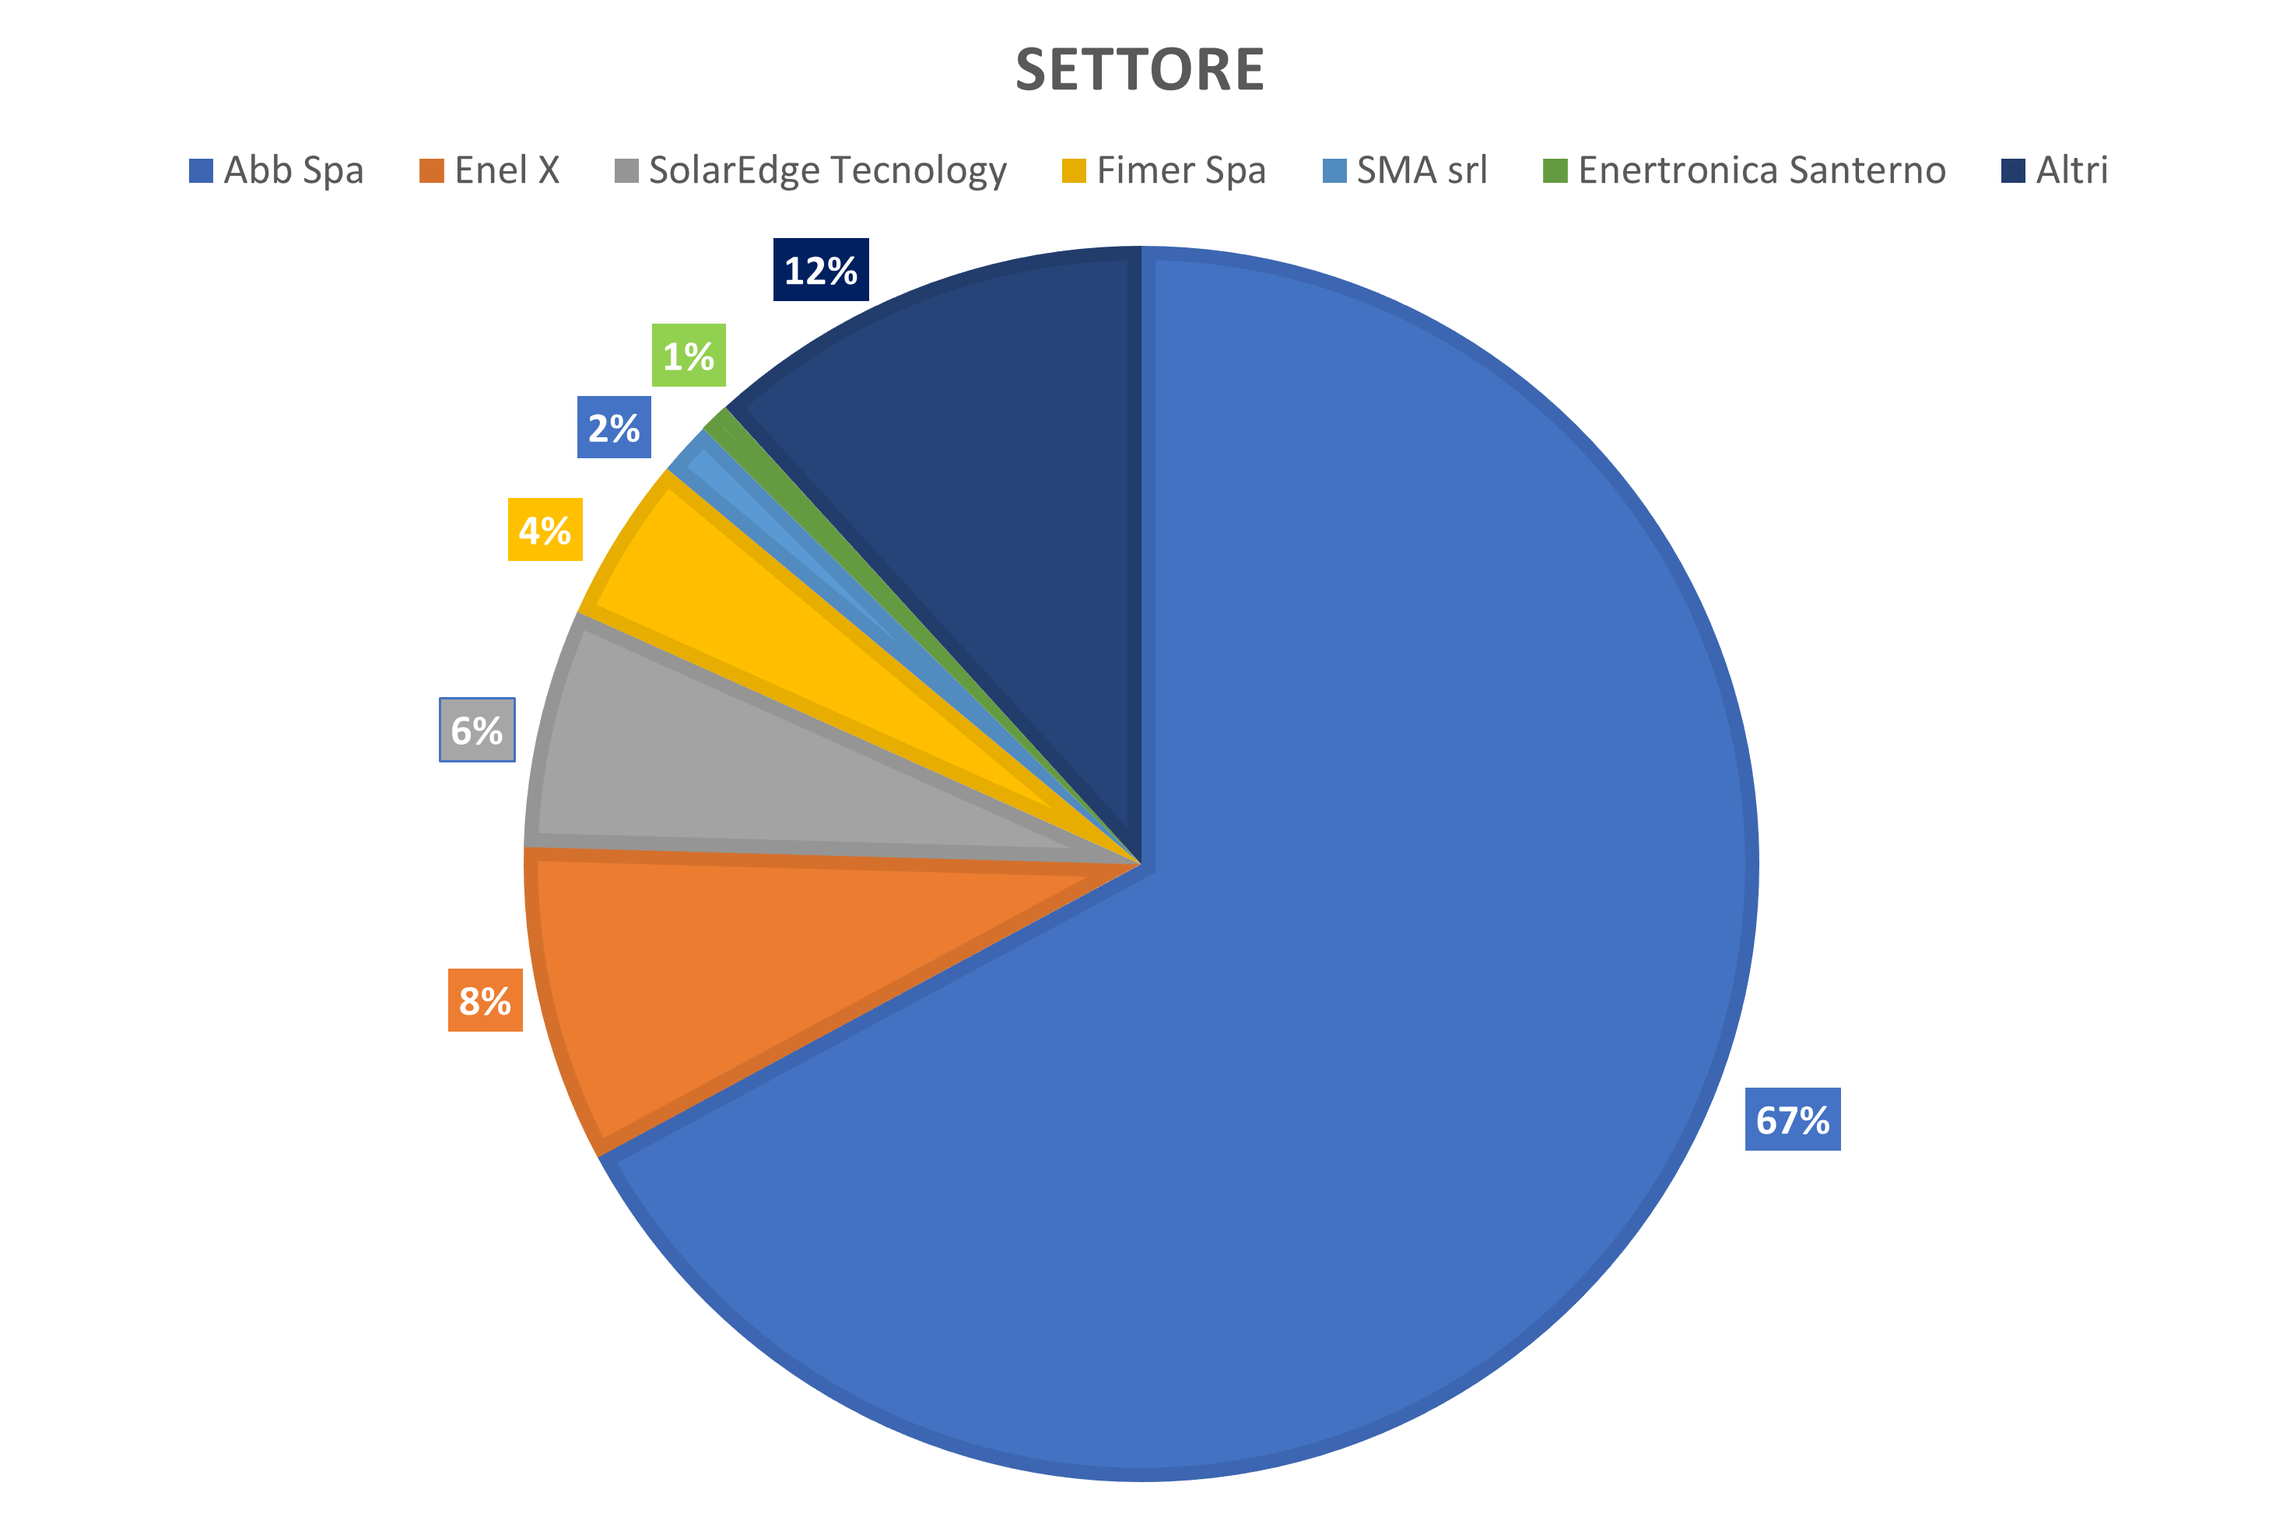
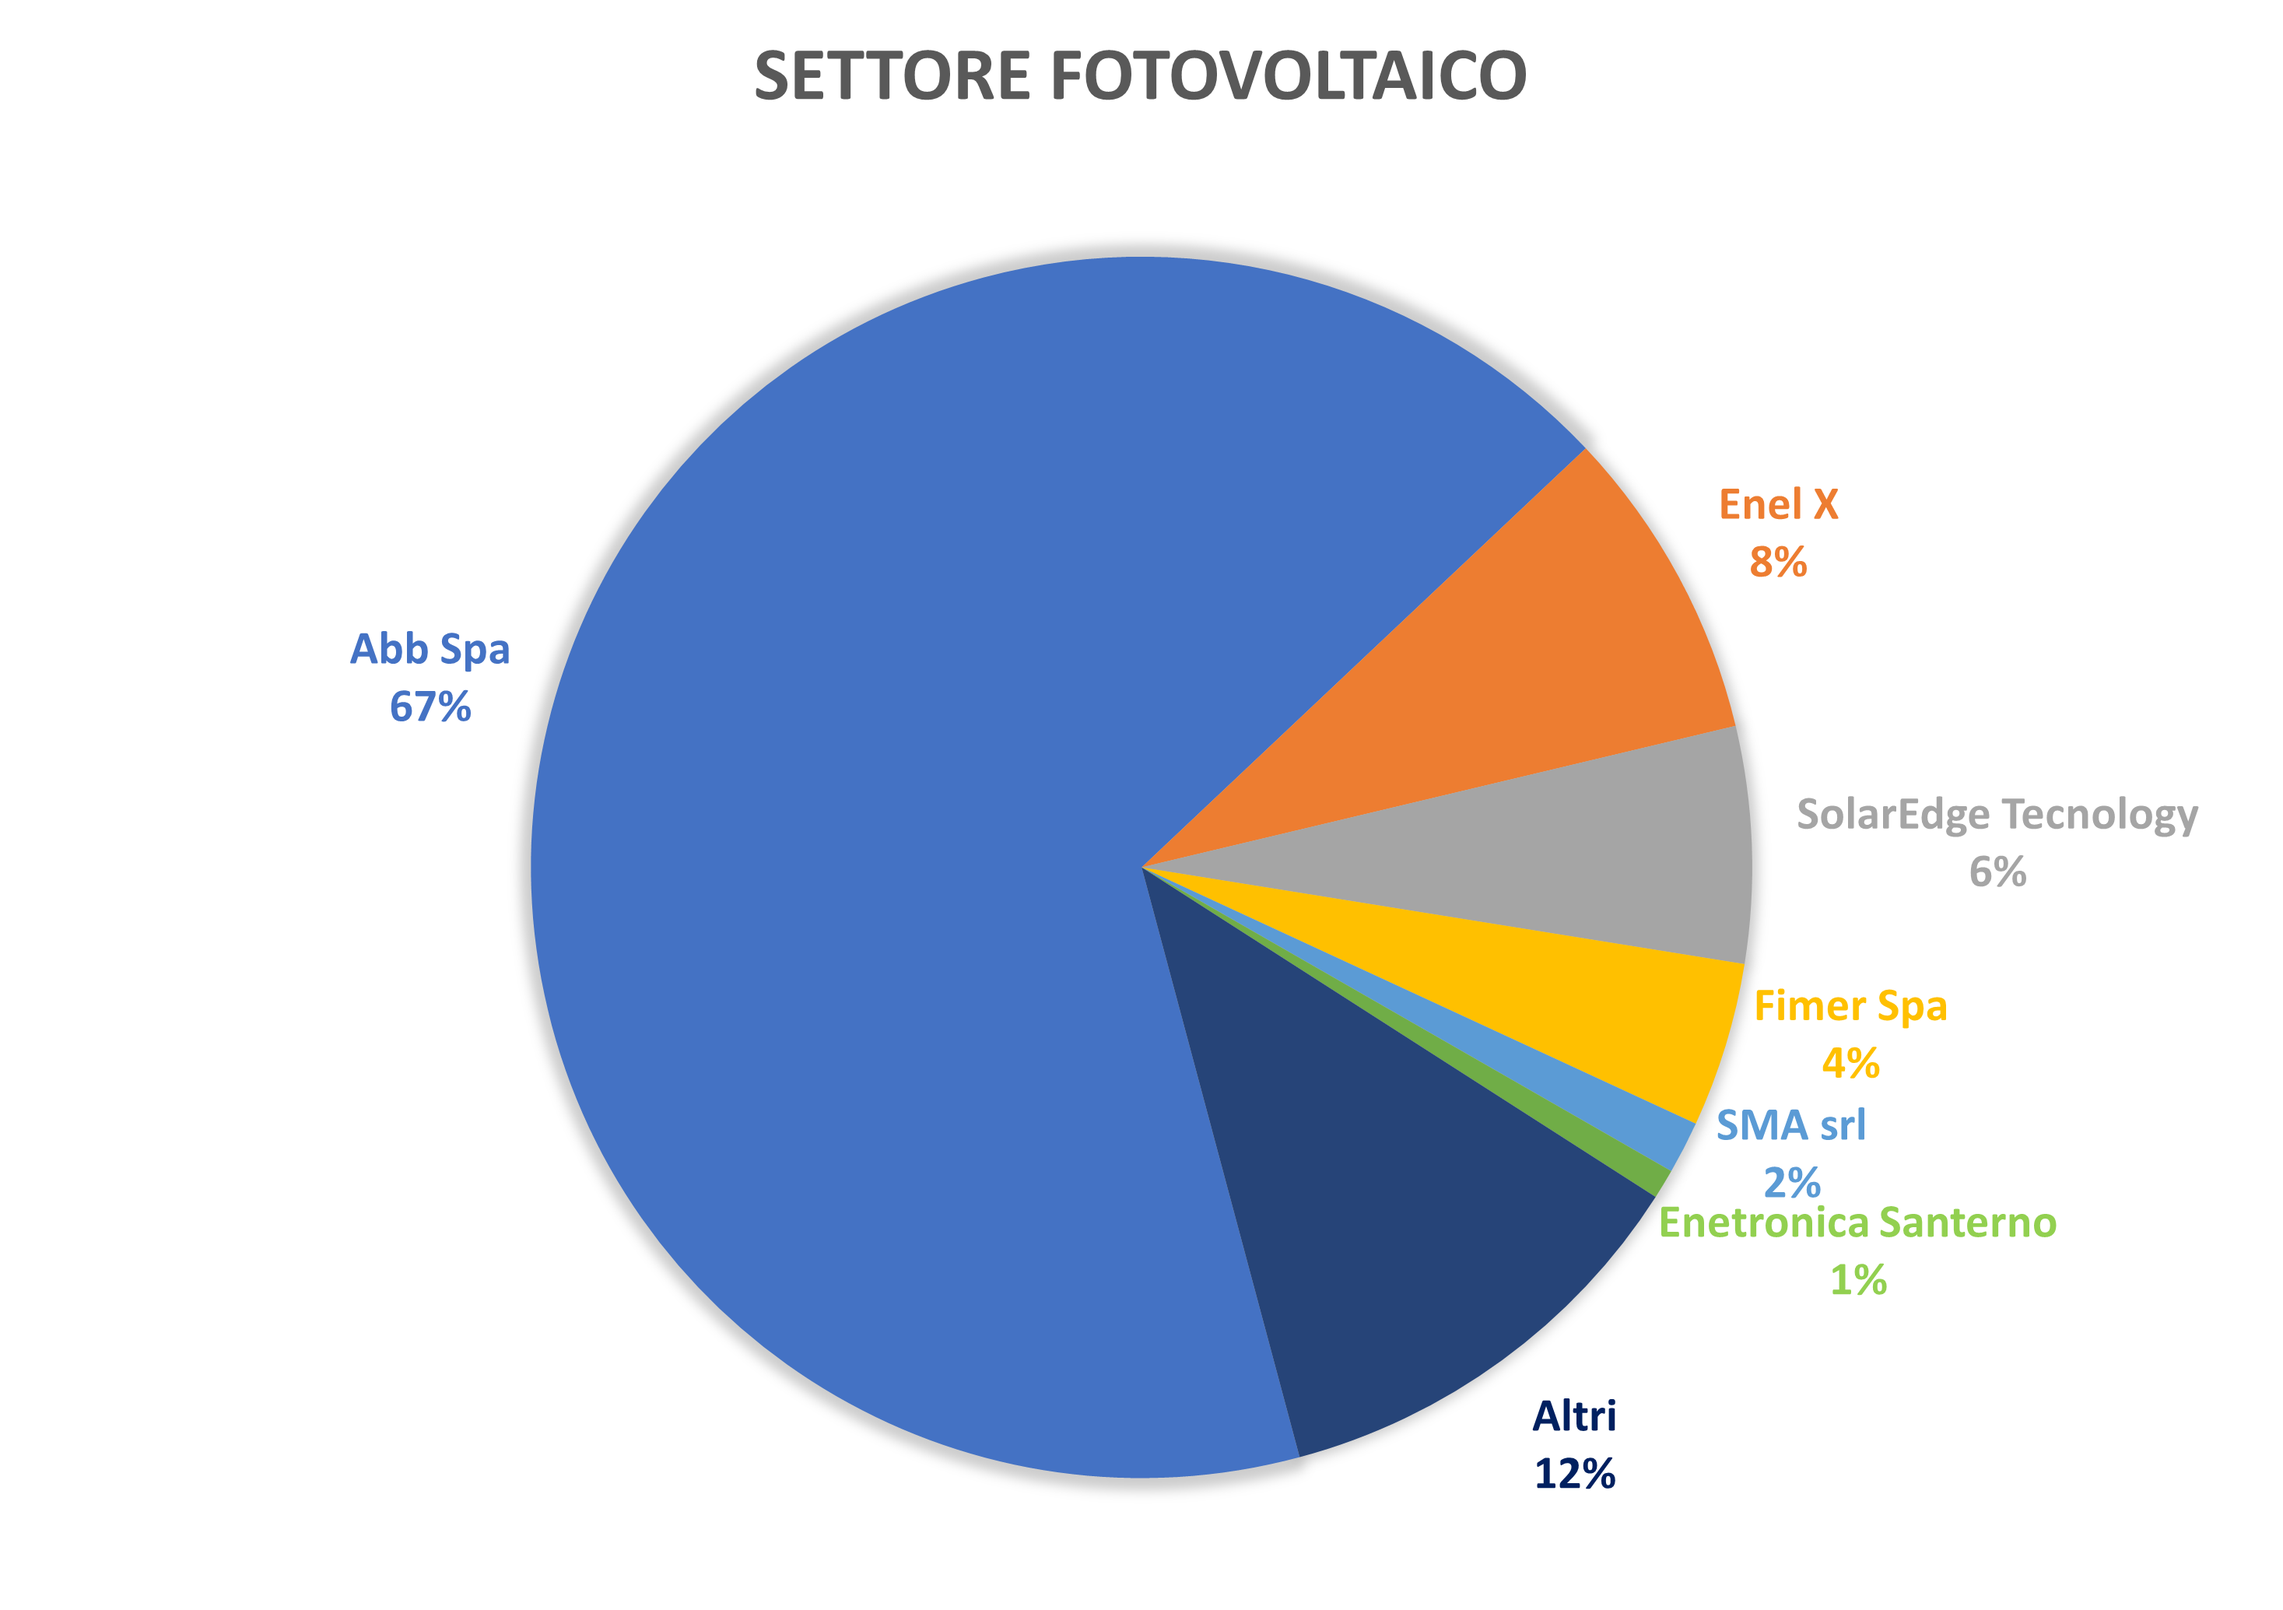
Aggiunta SWOT e curve di valore

diff --git a/Report/Report.tex b/Report/Report.tex
@@ -80,10 +80,10 @@
 	% https://www.lumi4innovation.it/accumulo-energia-rinnovabili-energy-storage/
 	*inserisci nome* vuole inserirsi all'interno del settore fotovoltaico, avendo lo scopo di rendere più utili e performanti queste fonti sostenibili.\\\\
 	Grazie alla sempre maggiore spinta internazionale verso le fonti di energia rinnovabili, il settore fotovoltaico è in notevole espansione sull'intero pianeta.\\
-	Importante è anche la crescita della capacità fotovoltaica installata in Italia. Nei primi sette mesi del 2023, in Italia, sono stati installati oltre 2,7 GW, con una crescita del 113\% rispetto allo stesso periodo dell'anno precedente, con un importante contributo degli impianti residenziali (circa il 47\% della capacità totale connessa).\\	
+	Importante è anche la crescita della capacità fotovoltaica installata in Italia. Nei primi sette mesi del 2023, in Italia, sono stati installati oltre 2,7 GW, con una crescita del 113\% rispetto allo stesso periodo dell'anno precedente, con un importante contributo degli impianti residenziali (circa il 47\% della capacità totale connessa).\\\\
 	Secondo i dati forniti da \href{https://www.terna.it/it/sistema-elettrico/dispacciamento/fonti-rinnovabili}{\emph{Gaudì}}, la potenza fotovoltaica cumulata in Italia, ad agosto 2023, ha superato i 28 GW, con oltre 1,4 milioni di installazioni attive. Un dato notevole se si considera che, nei primi otto mesi dell'anno, sono stati installati 3.123 MW di potenza fotovoltaica, con andamenti diversi per i vari segmenti:
 	\begin{itemize}
-		\item residenziale (impianti sotto i 12 kW) ha registrato l'installazione di 1.379 MW
+		\item residenziale (impianti sotto i 12 kW) ha registrato l'installazione di 1.379 MW;
 		\item commerciale ed industriale (impianti tra i 20 kW e 1 MW) registrati 1.088 MW;
 		\item utility-scale (impianti con potenza superiore a 1 MW) aumento di 426 MW.
 	\end{itemize}
@@ -93,13 +93,20 @@
 		\includegraphics[width=0.7\textwidth]{Images/previsioni_solare.jpg}
 		\includegraphics[width=0.7\textwidth]{Images/andamento_pannelli2.png}
 	\end{center}
-	Il settore del fotovoltaico è sufficientemente vasto da poter essere a sua volta suddiviso in due parti: una prima parte che comprende le imprese produttrici di moduli fotovoltaici (in cui i principali attori sono \emph{Sunpower, Panasonic, Exe Solar} e simili) e una seconda parte che riguarda le imprese produttrici di componenti cooperanti coi moduli fotovoltaici.\\
-	Sebbene esistano enti che si pongono a cavallo di questa partizione, *inserisci nome* fa capo solamente alla seconda categoria.\\
-	\begin{figure}[h]
-		\begin{center}
-			\includegraphics[width=0.8\textwidth]{Images/suddivisione_settore.png}
-		\end{center}
-	\end{figure}\\
+	Il settore del fotovoltaico è sufficientemente vasto da poter essere a sua volta suddiviso in due parti: una prima parte che comprende le imprese produttrici di moduli fotovoltaici (in cui i principali attori sono \emph{Sunpower, Panasonic, Exe Solar} e simili) e una seconda parte che riguarda le imprese produttrici di componenti cooperanti coi moduli fotovoltaici.\\\\
+	Sebbene esistano enti che si pongono a cavallo di questa partizione, *inserisci nome* fa capo solamente alla seconda categoria. All'interno di questa non vi è grande frammentazione, infatti la maggioranza è occupata da \emph{Abb Spa}: una società fortemente coinvolta nella produzione di apparecchiature che garantiscono continuità di servizio, affidabilità e ritorno dell'investimento tramite interruttori, dispositivi di misurazione, sensori e altro.\\
+	I prodotti e servizi forniti da \emph{Abb Spa} sono poi utilizzabili anche in moltissimi altri settori eterogenei; questo aumenta considerevolmente l'influenza e il potere economico dell'impresa stessa, dandole la possibilità di imporsi nei confronti di altre società più specializzate quali \emph{Enel X} e \emph{SoralEdge Tecnology} come riportato nel grafico seguente:\\
+	\begin{center}
+		\includegraphics[width=0.7\textwidth]{Images/suddivisione_settore.png}
+	\end{center}
+	La proposta di *inserisci nome* è ritenuta interessante per attuale situazione del settore, sia perché, come detto in precedenza, l'ambito del fotovoltaico st andando ampliandosi, sia a causa della mancanza di una soluzione a supporto dei moduli fotovoltaici che sia specializzata nella pulizia di questi. La strategia adottata è riportata di seguito:
+	\begin{center}
+		\includegraphics[width=0.7\textwidth]{Images/SWOT.png}%\vspace{-2cm}
+	\end{center}
+	Oltre a ciò, si riportano qui gli obiettivi perseguiti da *inserisci nome* confrontati con quelli dei principali competitor sopra citati:
+	\begin{center}
+		\includegraphics[width=0.8\textwidth]{Images/curve_valore.png}%\vspace{-2cm}
+	\end{center}
 	\section{Il mercato e il cliente}
 	\section{Modello di business}
 	\section{Funzionamento del prodotto}
